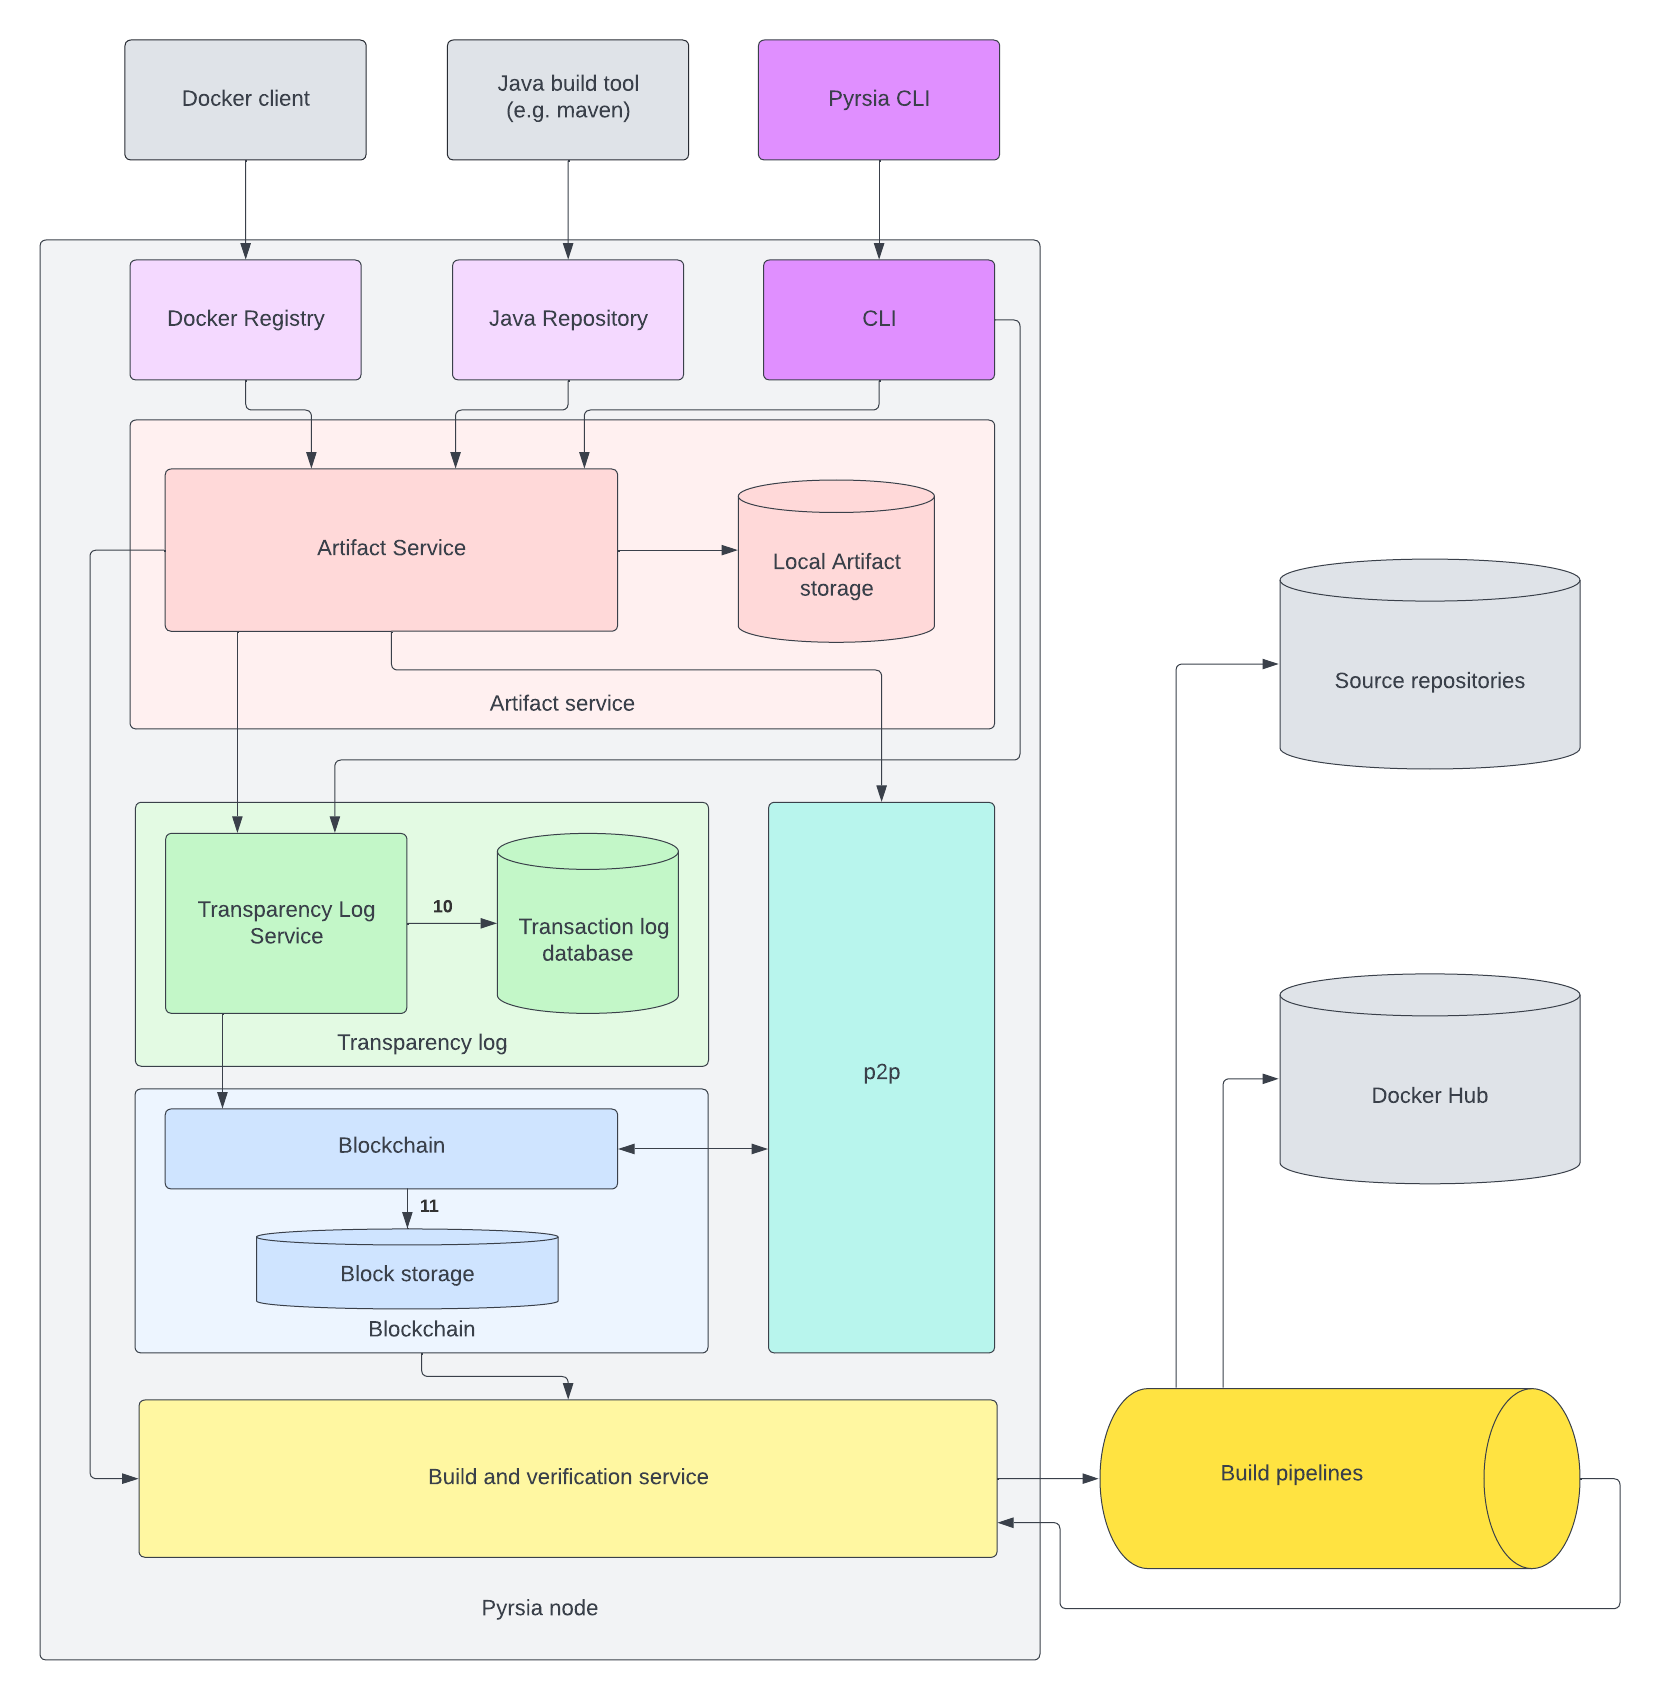
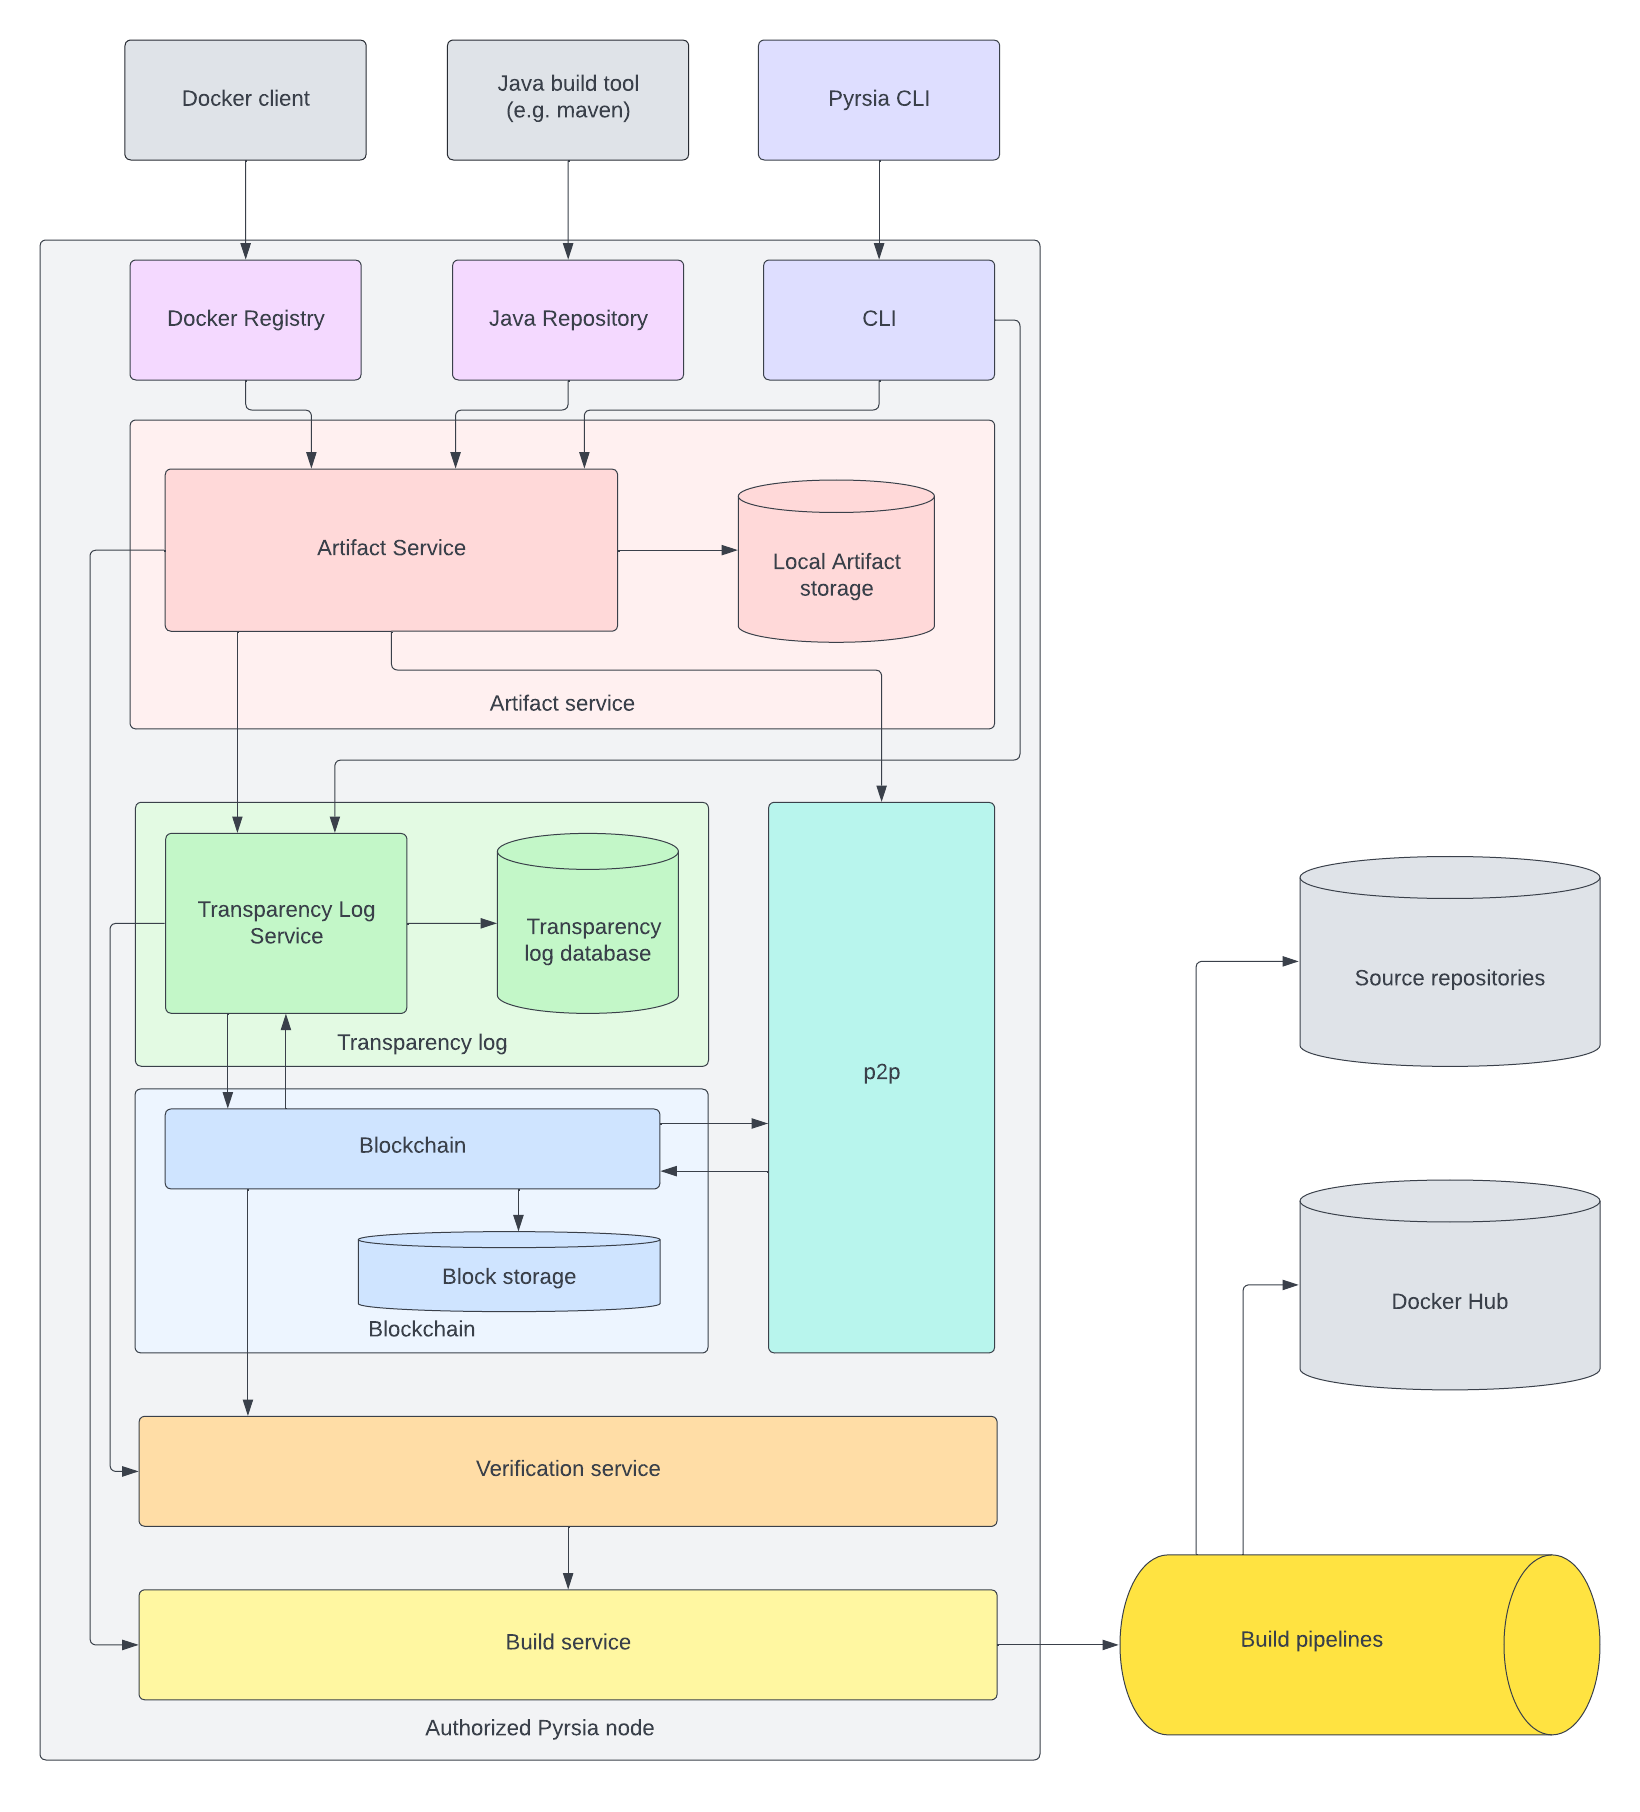
More detailed Pyrsia components and stories (#805)
* stories [WIP]

* stories [WIP]

* component details

* temporarily removed TODOs

* fix linting

* blockchain high level

* fix linting

* Apply suggestions from code review

* Update docs/developers/pyrsia-architecture-and-use-cases.md

* Update docs/developers/pyrsia-architecture-and-use-cases.md

* update diagram

* Apply suggestions from code review

* Apply suggestions from code review

* extra definitions

* pr remark

* newline

diff --git a/docs/developers/pyrsia-architecture-and-use-cases.md b/docs/developers/pyrsia-architecture-and-use-cases.md
@@ -11,12 +11,22 @@
 - Authorized node: a Node authorized to participate in the consensus algorithm to
   verify transactions
 - Regular node: a Node using the network to download and validate software packages
-- Transaction: an operation in the transparency log. e.g. `add_artifact`,
-  `add_node`, ...
+- Transparency log: information about every operation on the Pyrsia network, like
+  adding or removing an artifact, but also about adding or removing authorized nodes.
+  A transparency log is stored as the payload of a blockchain transaction.
+- Blockchain : a distributed ledger including all the transactions in the Pyrsia
+  network
+- Block: a record of the distributed ledger including one or more transactions
+- Transaction: a record in the block, containing the transparency log as the payload.
 - Consensus: consensus establishes the agreement between authorized nodes that a
   transaction is valid.
 - Artifact: a single file that can be retrieved from the Pyrsia network. It does
   not necessarily coincide with package specific artifacts.
+- Package ecosystem: a specific package ecosystem that Pyrsia supports. e.g. Java,
+  Docker, ...
+- Package type: the type of a package in a specific package ecosystem. e.g. jars
+  for Java, Docker images for Docker, ...
+- PSID: a package type specific artifact ID.
 - Authorized node admin: the person who can administer an authorized node
 
 ## Introduction
@@ -66,39 +76,77 @@ of the Pyrsia network.
 
 ![Pyrsia component diagram](pyrsia-node-high-level-components.png)
 
-### Package type ecosystems
+### Package ecosystem integrations
 
-A Pyrsia node contains several connectors to specific package type ecosystems
-like Docker or Maven. The ecosystem connectors allow the existing tooling of a
+A Pyrsia node contains several integrations for specific package ecosystems
+like Docker or Maven. The ecosystem integrations allow the existing tooling of a
 specific package type to seamlessly integrate with Pyrsia. e.g. the Docker
 repository service implements a subset of the Docker Registry API or the Java
 repository service implements a subset of the Maven repository API.
 
-The end goal of a such a service is always a frictionless integration of Pyrsia
-in the developer's workflow.
+The end goal of a such an integration service is always a frictionless integration
+of Pyrsia in the developer's workflow.
+
+Different package type integrations deal with package specific details in a different
+way. But all must follow the same logic:
+
+- Handle incoming requests from the package type specific clients (e.g. Docker
+  client, Maven client, ...)
+- Use the artifact service to retrieve the artifact. (The artifact service
+  contains all the logic to retrieve (locally or from the p2p network) and validate
+  the artifact.)
 
 ### Pyrsia CLI API
 
 The Pyrsia CLI API is the entry point into the Pyrsia node for the Pyrsia
-command line tool. It supports all kinds of management operations (requesting
-status information about the local artifact storage, information about the peers
-in the p2p network) and inspecting transparency logs.
+command line tool. It supports all kinds of management operations and inspecting
+transparency logs.
+
+The Pyrsia CLI API has functions to:
+
+- retrieve and change node configuration
+- request status information about the local artifact storage
+- request status information about the p2p connection status
+- request the addition of a new authorized node (_Authorized nodes only_)
+- request starting a new build from source
 
 ### Artifact Service
 
-The artifact service is the component that can store, retrieve and verify Pyrsia
-artifacts.
+The artifact service is the component that handles everything related to Pyrsia
+artifacts. It allows artifacts to be retrieved, and it allows artifacts to be
+added to the Pyrsia network, by triggering a build from source.
 
-In the artifact consumption use cases, this component offers an abstract way of
-dealing with Pyrsia artifacts for the specific ecosystem connectors. It will
-handle get_artifact requests and perform all necessary steps to find, retrieve
-and validate artifacts either locally or using the p2p network.
+The artifact service provides these functions:
 
-In the publication use cases (on authorized nodes) this component is responsible
-to drive build triggers: it will request a build from source at the Build Service,
-use the Transparency Log Service to add an `add_artifact` transaction, and when
-consensus is reached, it will store the artifact and make it available in the p2p
-network.
+- get an artifact based on the package type and a package specific
+  artifact ID (PSID). \
+  the artifact service implements this as follows:
+  - get the latest available `add_artifact`transparency log (if any) for this artifact
+    from the transparency log service.
+  - the transparency log contains the (Pyrsia) `artifact_id` which is used to retrieve
+    the actual artifact file
+  - if the file is available locally, it is used
+  - if the file isn't available locally, it is retrieved using the `p2p` component.
+  - the file is then checked by calculating its hash and comparing it to the
+      `artifact_hash` stored in the transparency log.
+  - if the hashes match the bytes of the file, they are returned to the caller of
+      the artifact service, otherwise an error is returned.
+
+- request a build from source for a specific package type and a package
+  specific artifact ID (PSID). \
+  the artifact service implements this as follows:
+  - start a build using the build service, and wait for its result.
+  - when the build is finished:
+    - temporary hold the build result
+    - and call the transparency log including the package type, PSID and
+      the hashes from the build result to add an `add_artifact` transparency log.
+      this call is asynchronous (because consensus will need to be reached about
+      the transaction), so the artifact service will wait from a callback from
+      the transparency log
+    - when the call is received and the `add_artifact` succeeded, the artifact
+      service stores the artifact locally in a file named `artifact_id` and the
+      source in a file named `source_id`. Both files are provided on the p2p
+      network using the `p2p` component.
 
 ### p2p
 
@@ -109,20 +157,68 @@ artifacts and transparency logs.
 
 ### Transparency Log Service
 
-This component is used by the Artifact Service to store and retrieve transparency
+This component is used by the artifact service to store and retrieve transparency
 log information about an artifact.
 
-It uses the Blockchain component to retrieve transactions and to reach consensus
-on the publication of new transactions. It uses a local database to store and index
-transaction information for easy access.
+It uses the blockchain component to retrieve transparency logs and to reach consensus
+on the publication of new transparency logs. It uses a local database to store
+and index transparency log information for easy access.
+
+The transparency log service provides these functions:
+
+- `add_artifact`: to add a transparency log, logging the addition of an artifact
+   to the Pyrsia network. \
+   It follows this procedure:
+  - create a `TransparencyLog` including
+    - operation: `add_artifact`
+    - package type: provided by the `AddArtifactRequest`
+    - package type specific artifact ID (PSID): provided by the `AddArtifactRequest`
+    - timestamp: now
+    - artifact_hash: provided by the `AddArtifactRequest`
+    - source_bash: provided by the `AddArtifactRequest`
+    - artifact_id: Pyrsia specific id of the artifact (UUID to be generated by
+        the Transparency Log Service at the time of transparency log creation)
+    - source_id: Pyrsia specific id of the artifact's source (UUID to be generated
+        by the Transparency Log Service at the time of transparency log creation)
+    - the transparency log is provided as the payload of the `add_transaction`
+      method of the blockchain component. the service now waits for the blockchain
+      component to reach consensus with the other authorized nodes.
+    - when consensus is reached, the transparency log service will be notified
+      by the blockchain component, which will:
+      - store the transparency log in the transparency log database
+      - notify the caller of `add_artifact`
+
+- retrieving the latest `add_artifact` transparency log
+  - this function takes the package type and PSID as input \
+    and follows this procedure:
+    - search the transparency log database for all transparency log with
+      - operation: add_artifact or remove_artifact
+      - package_type: given as a parameter to this method
+      - package_type_id: the PSID also given as a parameter to this method
+      - and sort on timestamp descending
+    - if the latest transparency log is remove_artifact or no transparency log
+      is found, an error is returned
+    - otherwise the latest transparency log is returned
+
+- retrieving current authorized nodes
+  - this function is mainly used by the blockchain component to find out who
+    the other authorized nodes are.
+
+- searching transparency logs (for inspection)
+
+- adding a transparency log to add another authorized node
+
+- adding a transparency log to remove an authorized node
+
+- adding a transparency log to remove an artifact
 
 ### Blockchain
 
-This component offers an interface to store and retrieve immutable transaction
+This component offers an interface to store and retrieve immutable transparency
 logs, and distribute them across all peers.
 
-Before transactions can be added to the blockchain, consensus needs to be reached
-using a fault-tolerant consensus algorithm, because:
+Before transparency logs can be added to the blockchain, consensus needs to be
+reached using a fault-tolerant consensus algorithm, because:
 
 - A majority of (authorized) nodes must be able to agree to the same result
 - A small number of faulty (authorized) nodes must not be able to influence the
@@ -130,17 +226,78 @@ using a fault-tolerant consensus algorithm, because:
 - A small number of faulty (authorized) nodes must not be able to slow down the
   system or make it stop working
 
+The blockchain component supports these functions:
+
+- add_transaction(payload, callback) to request the addition of a new transaction
+  - called by the transparency log service (payload can contain operation=add_artifact,
+    add_node, etc)
+    - the blockchain component receives this call, builds a block and communicates
+      with other authorized nodes
+    - if a consensus is reached, commit a new block
+    - if a new block is committed, the blockchain module broadcasts the event add_block
+      on the p2p network
+
+- add_block_listener(callback): to register a listener for new payloads that reached
+  consensus.
+  - this function is used by the transparency log service
+  - so it receives the payload of every committed payload
+
+- when an authorized Pyrsia node needs to verify a block to reach consensus,
+  the blockchain component will use the verification service to verify the payload
+  of each transaction in the block. It's the responsibility of the verification
+  service to inspect the payload and perform the necessary steps (e.g. start
+  a build and verify its output)
+
+### Verification service
+
+The verification service is a component only used by authorized nodes. It implements all
+necessary logic to verify blockchain transactions.
+
+The verification service supports this function:
+
+- `verify_transaction` verifies a transaction based on its payload \
+  this function is called by the blockchain component to try and reach consensus
+  on a transaction that was added by another authorized node by verifying the payload
+  of that transaction.
+  - based on the transparency log operation
+    - if `add_node`
+      - if the node was previously marked as a authorized node candidate, agree
+          to the transaction
+      - if not, do not agree to the transaction
+    - if `add_artifact` perform these steps:
+      - based on the package type (from the transparency log)
+        - start a build using the build service and wait for the result
+        - when the build finishes, hash the binary and source artifacts and compare
+            them to the hashes in the transparency log
+          - simple hashing might not be sufficient for non-reproducible builds
+          - if the hashes match, return success to the caller of this function
+          - TDB: how do we make sure all authorized nodes will store the build
+                result?
+
 ### Build service
 
 The build service is a component only used by authorized nodes. It is the entry
-point to the authorized node's build pipeline infrastructure and takes a Transaction
-as input, including:
+point to the authorized node's build pipeline infrastructure.
 
-- the package type
-- the source repo url
+The builds service supports this function:
 
-Based on the package type and the build spec of the artifact, the build service
-will then invoke a build using a suitable pipeline.
+- start a build based on the package type and the PSID \
+  this function is typically called from the CLI component when a build from
+  source was requested by a user.
+  - based on the package type it will:
+    - map the PSID to a source repo (if necessary)
+    - find a suitable build pipeline and trigger a build
+    - wait for the build result
+    - when the build finishes, hash the binary artifact and the source artifact
+      - one build might produce multiple (Pyrsia) artifacts
+      - for non-reproducible builds simple hashing will not be sufficient
+    - return the build result (could be multiple: one per artifact) to the caller
+      of the `start_build` (this will need to be an async callback) \
+      the build result contains:
+      - the binary artifact
+      - the source artifact
+      - the hash of the binary artifact
+      - the hash of the source artifact
 
 ## Technical stories and details
 
